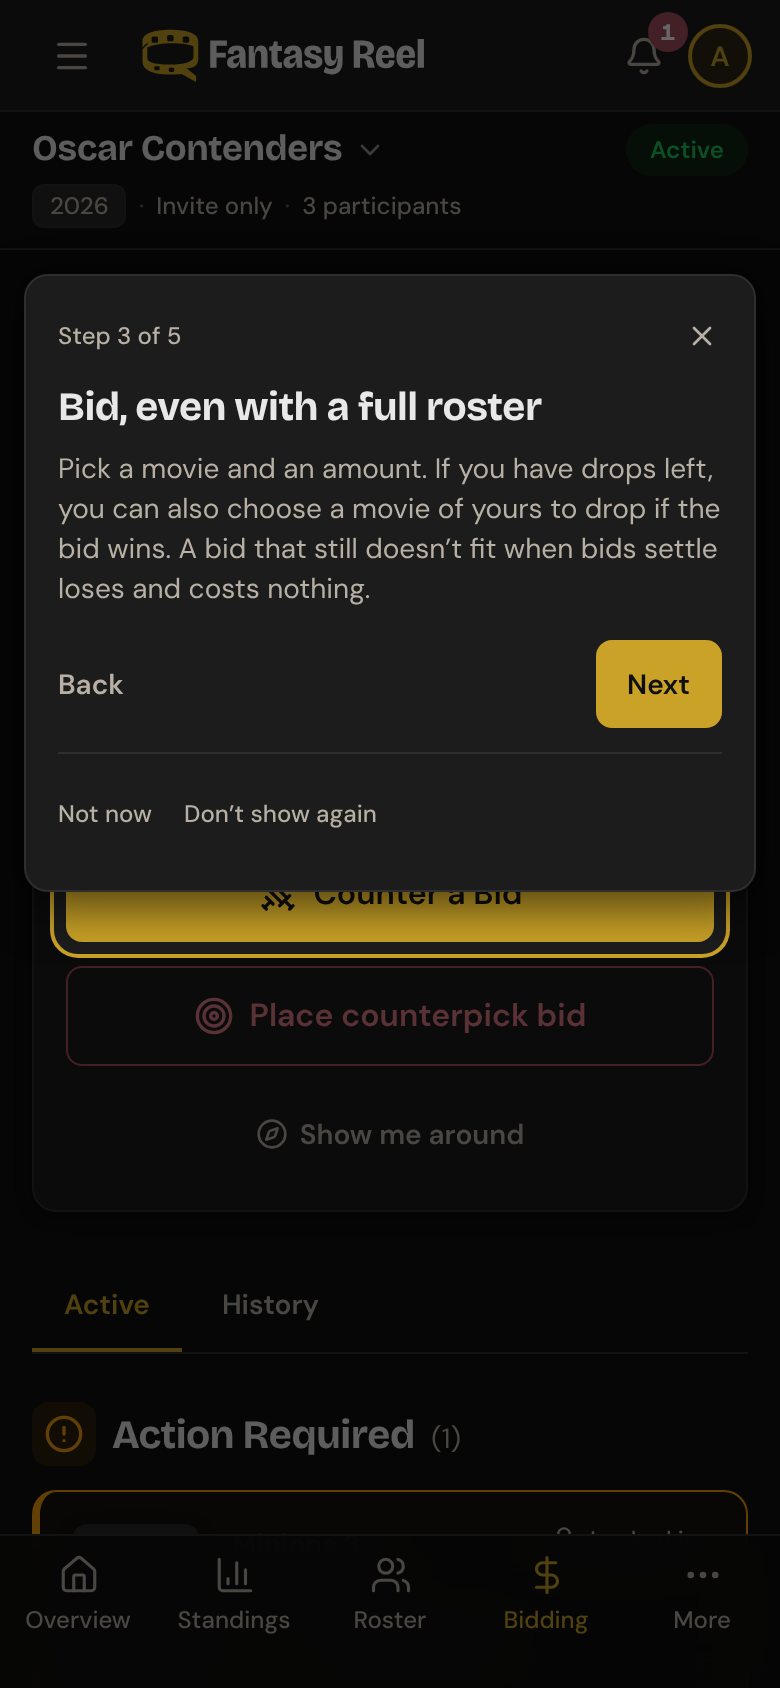
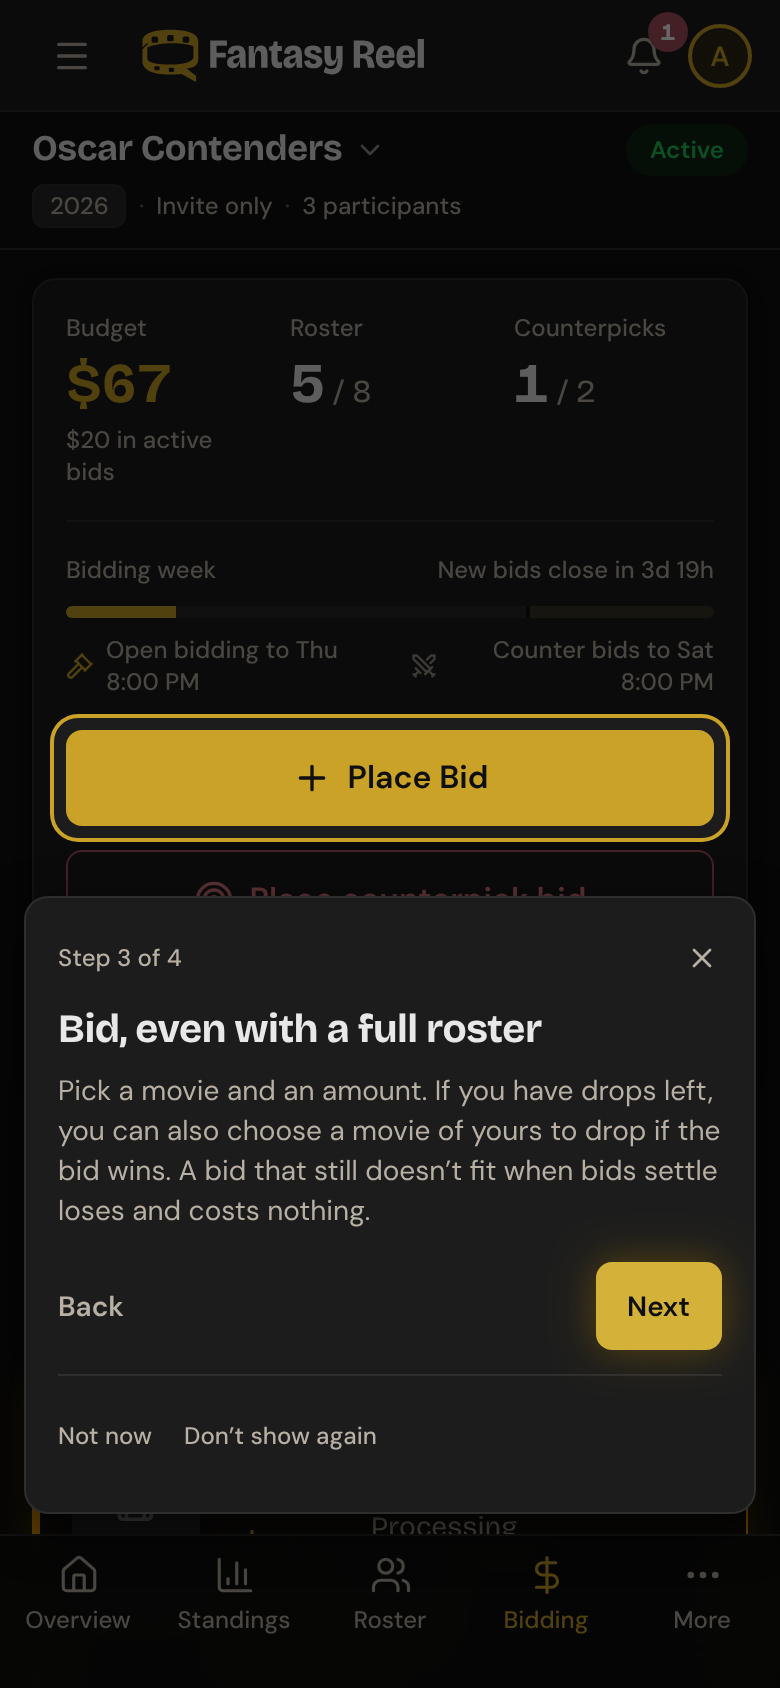
Apply the tour content review to the post-draft tours
- Overview, Roster, Bidding and Trading start by themselves only until a
  player's first season has finished (isFirstSeason). Anyone on those tabs
  already has an active season, so newPlayer would never let them start.
- Standings plays only when asked: Overview already says points count
  from release day.
- Bidding stays at version 1, so players who saw it aren't shown it again.
- Trimmed copy: Overview step 1, Standings step 1, Roster (drop the Locked
  movies step, use the real drop count), Bidding (drop "After you bid" and
  the withdrawal rule).
- Retook the screenshots of the changed tours.

Claude-Session: https://claude.ai/code/session_01WcvSqD1jEtrfR9ycMgEgbU

diff --git a/apps/frontend/tours/definitions/roster.ts b/apps/frontend/tours/definitions/roster.ts
@@ -2,22 +2,23 @@ import type { LeagueStatus } from '@/types'
 import { defineTour } from '../types'
 
 /**
- * The Roster tab during a season: what a drop does, when a movie can't be
- * dropped, and how counterpicks score. The drop dialog explains each lock in
- * full, so the tour only says what the locks are.
+ * The Roster tab during a season: drops and counterpicks. The drop dialog
+ * explains why a movie is locked, so the tour leaves locks to it.
  */
-export const rosterTour = defineTour<{ leagueStatus: LeagueStatus; dropLimit: number; counterpicksBlockDrops: boolean; counterpicksEnabled: boolean }>({
+export const rosterTour = defineTour<{ leagueStatus: LeagueStatus; dropLimit: number; counterpicksEnabled: boolean; firstSeason: boolean }>({
   id: 'roster',
   version: 1,
   title: 'Your roster',
-  description: 'Roster tab: dropping movies, what locks one in place, and your counterpicks.',
+  description: 'Roster tab: dropping movies and your counterpicks.',
   when: (ctx) => ctx.leagueStatus === 'active' && (ctx.dropLimit !== 0 || ctx.counterpicksEnabled),
+  autoStart: (ctx) => ctx.firstSeason,
   steps: [
     {
       anchor: 'roster-drops',
       when: (ctx) => ctx.dropLimit !== 0,
       title: 'Drops are limited',
-      body: 'Dropping a movie frees its slot for a pickup and, if critics haven’t scored it, puts it back up for bids. You get a set number of drops for the whole season. A drop is permanent and refunds nothing.',
+      body: (ctx) =>
+        `You get ${ctx.dropLimit} ${ctx.dropLimit === 1 ? 'drop' : 'drops'} for the season. A drop frees the slot for a pickup, is permanent and refunds nothing.`,
     },
     {
       // Only cards that can be dropped carry this anchor, so the step drops out when none can.
@@ -26,20 +27,10 @@ export const rosterTour = defineTour<{ leagueStatus: LeagueStatus; dropLimit: nu
       body: 'Open a movie to drop it. Do it before release day: once a movie opens, it can’t be dropped.',
     },
     {
-      anchor: 'roster-locked',
-      centerIfMissing: true,
-      when: (ctx) => ctx.dropLimit !== 0,
-      title: 'Locked movies',
-      body: (ctx) =>
-        ctx.counterpicksBlockDrops
-          ? 'Besides opening, a movie locks while another team holds a counterpick on it or is bidding for one, and every movie locks once your drops run out. Open a locked movie to see why.'
-          : 'Besides opening, every movie locks once your drops run out. Open a locked movie to see why.',
-    },
-    {
       anchor: 'roster-counterpicks',
       when: (ctx) => ctx.counterpicksEnabled,
-      title: 'Counterpicks score in reverse',
-      body: 'A counterpick earns you its movie’s points with the sign flipped, so a flop helps you and a hit costs you. It stays yours even if the other team drops the movie.',
+      title: 'Your counterpicks',
+      body: 'A counterpick scores a rival’s movie in reverse, and stays yours even if they drop it.',
     },
   ],
 })

diff --git a/apps/frontend/tours/definitions/bidding.ts b/apps/frontend/tours/definitions/bidding.ts
@@ -2,17 +2,17 @@ import type { LeagueStatus } from '@/types'
 import { defineTour } from '../types'
 
 /**
- * The Bidding tab during a season: the Fantasy Budget, the bidding week, what
- * happens after a bid, and counterpick bids. Being outbid and bid priority
- * are taught here rather than when they happen, because a new player has
- * neither on a first visit.
+ * The Bidding tab during a season: the Fantasy Budget, the bidding week,
+ * placing a bid, and counterpick bids. Being outbid and bid priority are left
+ * to the page, which shows both when they happen.
  */
-export const biddingTour = defineTour<{ leagueStatus: LeagueStatus; counterpicksEnabled: boolean; counterbidHours: number }>({
+export const biddingTour = defineTour<{ leagueStatus: LeagueStatus; counterpicksEnabled: boolean; firstSeason: boolean }>({
   id: 'bidding',
-  version: 2,
+  version: 1,
   title: 'Bidding for pickups',
   description: 'Bidding tab: spending your Fantasy Budget on movies nobody holds.',
   when: (ctx) => ctx.leagueStatus === 'active',
+  autoStart: (ctx) => ctx.firstSeason,
   steps: [
     {
       anchor: 'bidding-budget',
@@ -22,21 +22,12 @@ export const biddingTour = defineTour<{ leagueStatus: LeagueStatus; counterpicks
     {
       anchor: 'bid-week',
       title: 'Get new bids in during open bidding',
-      body: 'During open bidding you can bid on any available movie and cancel your bids. After it closes, until bids settle, you can only raise or counter bids on movies already in play, and no bid can be withdrawn.',
+      body: 'During open bidding you can bid on any available movie. After it closes, until bids settle, you can only raise or counter bids on movies already in play.',
     },
     {
       anchor: 'place-bid',
       title: 'Bid, even with a full roster',
       body: 'Pick a movie and an amount. If you have drops left, you can also choose a movie of yours to drop if the bid wins. A bid that still doesn’t fit when bids settle loses and costs nothing.',
-    },
-    {
-      anchor: 'bid-priority',
-      centerIfMissing: true,
-      title: 'After you bid',
-      body: (ctx) => [
-        `If you’re outbid, you have ${ctx.counterbidHours} ${ctx.counterbidHours === 1 ? 'hour' : 'hours'} to counter. Your bid still stands, and wins at its own price if the leader has no room or budget left.`,
-        'Win more than you can fit or afford? Your bid priority decides which ones you keep.',
-      ],
     },
     {
       anchor: 'place-counterpick-bid',

diff --git a/apps/frontend/tours/definitions/standings.ts b/apps/frontend/tours/definitions/standings.ts
@@ -1,26 +1,28 @@
 import type { LeagueStatus } from '@/types'
 import { defineTour } from '../types'
 
-/** The Standings tab during a season: how teams are ranked, and what can still move them. */
-export const standingsTour = defineTour<{ leagueStatus: LeagueStatus; doublePoints: boolean }>({
+/**
+ * The Standings tab during a season: what can still move the order, and
+ * scouting other teams. Replay only: Overview, the tab before it, already
+ * says points count from release day.
+ */
+export const standingsTour = defineTour<{ leagueStatus: LeagueStatus }>({
   id: 'standings',
   version: 1,
   title: 'Standings',
   description: 'Standings tab: how teams are ranked and what can still change the order.',
   when: (ctx) => ctx.leagueStatus === 'active',
+  autoStart: () => false,
   steps: [
     {
       anchor: 'standings-summary',
-      title: 'Pending movies can still change the standings',
-      body: 'Pending movies haven’t opened or haven’t been scored yet. Points so far come only from movies that have opened with a score, so every pending movie can still change the order as reviews come in.',
+      title: 'Pending movies can still move',
+      body: 'Only movies that have opened with a score count so far. Every pending movie can still change the order.',
     },
     {
       anchor: 'standings-list',
       title: 'Scout the other teams',
-      body: (ctx) => [
-        ctx.doublePoints && 'This season, each point above 90% counts double.',
-        'Teams on the same total share a rank. Open any team to see the movies and counterpicks behind its score, and to spot a trade partner.',
-      ].filter(Boolean).join(' '),
+      body: 'Teams on the same total share a rank. Open any team to see the movies and counterpicks behind its score, and to spot a trade partner.',
     },
   ],
 })

diff --git a/apps/frontend/app/(authenticated)/league/[id]/dashboard/page.tsx b/apps/frontend/app/(authenticated)/league/[id]/dashboard/page.tsx
@@ -1,6 +1,7 @@
 import type { Metadata } from 'next'
 import { createClient } from '@/utils/supabase/server'
-import { getCachedLeague, getCachedUser } from '@/utils/supabase/cached'
+import { getCachedLeague, getCachedMemberships, getCachedUser } from '@/utils/supabase/cached'
+import { isFirstSeason } from '@/utils/onboarding'
 import { redirect, notFound } from 'next/navigation'
 import DashboardClient from './DashboardClient'
 import { buildTeamInfoByTeamId, getMovieStatus, getParticipantDisplayName } from '@/utils/league'
@@ -76,7 +77,7 @@ export default async function DashboardPage({ params }: PageProps) {
 
   const typedLeague = league as League
 
-  const [{ data: participants }, { data: holdingRows }, standings, seasons] = await Promise.all([
+  const [{ data: participants }, { data: holdingRows }, standings, seasons, { data: memberships }] = await Promise.all([
     // Fetch all participants with teams, scores, and remaining budgets
     supabase
       .from('league_participants')
@@ -109,6 +110,7 @@ export default async function DashboardPage({ params }: PageProps) {
       ? fetchStandings(supabase, id)
       : [],
     fetchSeriesSeasons(supabase, typedLeague.series_id),
+    getCachedMemberships(user.id),
   ])
 
   // Build team data
@@ -206,6 +208,7 @@ export default async function DashboardPage({ params }: PageProps) {
       leagueUpcoming={leagueUpcoming}
       todayIso={todayIso}
       isOwner={typedLeague.owner_id === user.id}
+      firstSeason={isFirstSeason(memberships)}
       nextSeasonId={seasons.find((season) => season.season_year === typedLeague.season_year + 1)?.id}
       champions={champions}
       championPoints={championPoints(champions, rows)}

diff --git a/apps/frontend/app/(authenticated)/league/[id]/bidding/layout.tsx b/apps/frontend/app/(authenticated)/league/[id]/bidding/layout.tsx
@@ -1,5 +1,6 @@
 import { createClient } from '@/utils/supabase/server'
-import { getCachedLeague, getCachedUser } from '@/utils/supabase/cached'
+import { getCachedLeague, getCachedMemberships, getCachedUser } from '@/utils/supabase/cached'
+import { isFirstSeason } from '@/utils/onboarding'
 import { redirect, notFound } from 'next/navigation'
 import BiddingShell from './BiddingShell'
 import type { League, ParticipantWithProfile, Team, TeamHolding, TeamWithOwner } from '@/types'
@@ -61,6 +62,7 @@ export default async function BiddingLayout({ children, params }: LayoutProps) {
     cutoffResult,
     deadlineResult,
     scoredResult,
+    { data: memberships },
   ] = await Promise.all([
     supabase
       .from('league_participants')
@@ -73,6 +75,7 @@ export default async function BiddingLayout({ children, params }: LayoutProps) {
     supabase.rpc('get_new_bid_cutoff', { p_league_id: id }),
     supabase.rpc('get_next_processing_deadline'),
     supabase.from('movies').select('tmdb_id').not('fantasy_points', 'is', null).gte('release_date', today),
+    getCachedMemberships(user.id),
   ])
 
   const participants = (participantsResult.data ?? []) as ParticipantWithProfile[]
@@ -122,6 +125,7 @@ export default async function BiddingLayout({ children, params }: LayoutProps) {
       biddingCounterpickSlots={league.bidding_counterpick_slots ?? 0}
       newBidCutoffAt={(cutoffResult.data as string | null) ?? null}
       processingDeadline={(deadlineResult.data as string | null) ?? null}
+      firstSeason={isFirstSeason(memberships)}
     >
       {children}
     </BiddingShell>

diff --git a/apps/frontend/app/(authenticated)/league/[id]/trading/page.tsx b/apps/frontend/app/(authenticated)/league/[id]/trading/page.tsx
@@ -1,6 +1,7 @@
 import type { Metadata } from 'next'
 import { createClient } from '@/utils/supabase/server'
-import { getCachedLeague, getCachedUser } from '@/utils/supabase/cached'
+import { getCachedLeague, getCachedMemberships, getCachedUser } from '@/utils/supabase/cached'
+import { isFirstSeason } from '@/utils/onboarding'
 import { redirect, notFound } from 'next/navigation'
 import TradingClient from './TradingClient'
 import type { League, Team, TeamWithOwner, ParticipantWithProfile } from '@/types'
@@ -38,11 +39,14 @@ export default async function TradingPage({ params }: PageProps) {
   }
 
   // One participant read supplies both the current team and trading partners.
-  const { data: participants } = await supabase
-    .from('league_participants')
-    .select('*, teams (*), profiles (display_name)')
-    .eq('league_id', id)
-    .eq('status', 'active')
+  const [{ data: participants }, { data: memberships }] = await Promise.all([
+    supabase
+      .from('league_participants')
+      .select('*, teams (*), profiles (display_name)')
+      .eq('league_id', id)
+      .eq('status', 'active'),
+    getCachedMemberships(user.id),
+  ])
 
   const participant = participants?.find((p) => p.user_id === user.id)
   if (!participant) {
@@ -83,6 +87,7 @@ export default async function TradingPage({ params }: PageProps) {
       currentTeam={currentTeam}
       otherTeams={otherTeams}
       isOwner={isOwner}
+      firstSeason={isFirstSeason(memberships)}
     />
   )
 }

diff --git a/apps/frontend/app/(authenticated)/league/[id]/roster/page.tsx b/apps/frontend/app/(authenticated)/league/[id]/roster/page.tsx
@@ -1,6 +1,7 @@
 import type { Metadata } from 'next'
 import { createClient } from '@/utils/supabase/server'
-import { getCachedLeague, getCachedUser } from '@/utils/supabase/cached'
+import { getCachedLeague, getCachedMemberships, getCachedUser } from '@/utils/supabase/cached'
+import { isFirstSeason } from '@/utils/onboarding'
 import { redirect } from 'next/navigation'
 import { HOLDING_MOVIE_COLUMNS } from '@/utils/holdings'
 import RosterClient from './RosterClient'
@@ -51,6 +52,7 @@ export default async function RosterPage({ params }: RosterPageProps) {
     dropCountResult,
     counterpicksResult,
     openCounterpickBidsResult,
+    { data: memberships },
   ] = await Promise.all([
     // One read for the whole roster: team_holdings unions draft picks and
     // pickups with dropped rows already excluded, and carries the counterpicking
@@ -83,6 +85,7 @@ export default async function RosterPage({ params }: RosterPageProps) {
       .select('movie_id')
       .eq('league_id', id)
       .in('status', ['active', 'outbid']),
+    getCachedMemberships(user.id),
   ])
 
   const { data: holdings } = holdingsResult
@@ -103,6 +106,7 @@ export default async function RosterPage({ params }: RosterPageProps) {
       userId={user.id}
       counterpicks={counterpicks || []}
       contestedMovieIds={contestedMovieIds}
+      firstSeason={isFirstSeason(memberships)}
     />
   )
 }

diff --git a/apps/frontend/tours/definitions/league-overview.ts b/apps/frontend/tours/definitions/league-overview.ts
@@ -6,17 +6,18 @@ import { defineTour } from '../types'
  * scored and won, and the moves a team has between releases. The Roster,
  * Bidding and Trading tours teach each move in detail.
  */
-export const leagueOverviewTour = defineTour<{ leagueStatus: LeagueStatus; tradesOpen: boolean; dropLimit: number; doublePoints: boolean }>({
+export const leagueOverviewTour = defineTour<{ leagueStatus: LeagueStatus; tradesOpen: boolean; dropLimit: number; doublePoints: boolean; firstSeason: boolean }>({
   id: 'league-overview',
   version: 1,
   title: 'Your season',
   description: 'Overview tab: how movies score, when points count, and how to improve your team.',
   when: (ctx) => ctx.leagueStatus === 'active',
+  autoStart: (ctx) => ctx.firstSeason,
   steps: [
     {
       title: 'Critics decide your score',
       body: (ctx) => [
-        'Each movie scores from its Rotten Tomatoes Tomatometer. 60% is worth nothing, every point above it earns a point, and lower scores cost you, though the loss eases off below 50%.',
+        'Each movie scores from its Rotten Tomatoes Tomatometer: every point above 60% earns a point, and a flop costs you.',
         ...(ctx.doublePoints ? ['This season, each point above 90% counts double.'] : []),
       ],
     },

diff --git a/apps/frontend/app/(authenticated)/league/[id]/bidding/BiddingShell.tsx b/apps/frontend/app/(authenticated)/league/[id]/bidding/BiddingShell.tsx
@@ -101,6 +101,8 @@ interface Props {
   /** From get_new_bid_cutoff(); null when the league has the cutoff disabled. */
   newBidCutoffAt: string | null
   processingDeadline: string | null
+  /** No finished season yet (isFirstSeason), so this page's tour starts by itself. */
+  firstSeason: boolean
   children: React.ReactNode
 }
 
@@ -116,6 +118,7 @@ export default function BiddingShell({
   biddingCounterpickSlots,
   newBidCutoffAt,
   processingDeadline,
+  firstSeason,
   children,
 }: Props): React.ReactElement {
   const activeSegment = useSelectedLayoutSegment()
@@ -289,7 +292,7 @@ export default function BiddingShell({
 
   return (
     <BiddingProvider value={contextValue}>
-      <FeatureTour id="bidding" ctx={{ leagueStatus: league.status, counterpicksEnabled: hasCounterpicks, counterbidHours: league.counterbid_hours }} />
+      <FeatureTour id="bidding" ctx={{ leagueStatus: league.status, counterpicksEnabled: hasCounterpicks, firstSeason }} />
       <div className="space-y-6" data-testid="bidding-panel">
         {/* Header: budget and slots, then the two ways to spend them */}
         <div className="card p-4 sm:p-5">

diff --git a/apps/frontend/app/(authenticated)/league/[id]/roster/RosterClient.tsx b/apps/frontend/app/(authenticated)/league/[id]/roster/RosterClient.tsx
@@ -33,6 +33,8 @@ interface RosterClientProps {
   counterpicks: RosterCounterpick[]
   /** Movies with an open counterpick auction, which blocks a drop. */
   contestedMovieIds: string[]
+  /** No finished season yet (isFirstSeason), so this page's tour starts by itself. */
+  firstSeason: boolean
 }
 
 /** One roster card's worth of a holding: how it was acquired decides the label. */
@@ -58,6 +60,7 @@ export default function RosterClient({
   userId,
   counterpicks,
   contestedMovieIds,
+  firstSeason,
 }: RosterClientProps) {
   const [holdings, setHoldings] = useState(initialHoldings)
   const [dropCount, setDropCount] = useState(initialDropCount)
@@ -141,8 +144,8 @@ export default function RosterClient({
         ctx={{
           leagueStatus: league.status,
           dropLimit: league.drop_limit,
-          counterpicksBlockDrops: league.counterpicks_block_drops,
           counterpicksEnabled: league.draft_counterpick_slots + league.bidding_counterpick_slots > 0,
+          firstSeason,
         }}
       />
       <RosterHeader

diff --git a/apps/frontend/app/(authenticated)/league/[id]/trading/TradingClient.tsx b/apps/frontend/app/(authenticated)/league/[id]/trading/TradingClient.tsx
@@ -23,9 +23,11 @@ interface Props {
   otherTeams: TeamWithOwner[]
   isOwner: boolean
   userId: string
+  /** No finished season yet (isFirstSeason), so this page's tour starts by itself. */
+  firstSeason: boolean
 }
 
-export default function TradingClient({ league, team, currentTeam, otherTeams, isOwner, userId }: Props) {
+export default function TradingClient({ league, team, currentTeam, otherTeams, isOwner, userId, firstSeason }: Props) {
   const [showProposeModal, setShowProposeModal] = useState(false)
   const [rosterRequested, setRosterRequested] = useState(false)
   // Said after the proposal dialog has closed: anything announced while it is
@@ -97,6 +99,7 @@ export default function TradingClient({ league, team, currentTeam, otherTeams, i
           reviewEnabled: league.trade_review_enabled,
           reviewHours: league.trade_veto_hours,
           isOwner,
+          firstSeason,
         }}
       />
       {(error || budgetError) && (

diff --git a/apps/frontend/app/(authenticated)/league/[id]/dashboard/DashboardClient.tsx b/apps/frontend/app/(authenticated)/league/[id]/dashboard/DashboardClient.tsx
@@ -33,6 +33,8 @@ interface Props {
   /** The season this one follows, if any. */
   previousSeason: { id: string; seasonYear: number } | null
   publicWishlistCount: number
+  /** No finished season yet (isFirstSeason), so this page's tour starts by itself. */
+  firstSeason: boolean
 }
 
 export default function DashboardClient({
@@ -48,6 +50,7 @@ export default function DashboardClient({
   participantNames,
   previousSeason,
   publicWishlistCount,
+  firstSeason,
 }: Props): React.ReactElement {
   const router = useRouter()
   const [league, setLeague] = useState(initialLeague)
@@ -106,6 +109,7 @@ export default function DashboardClient({
           tradesOpen: tradesOpen(league),
           dropLimit: league.drop_limit,
           doublePoints: league.double_points_over_90,
+          firstSeason,
         }}
       />
       <FeatureTour
